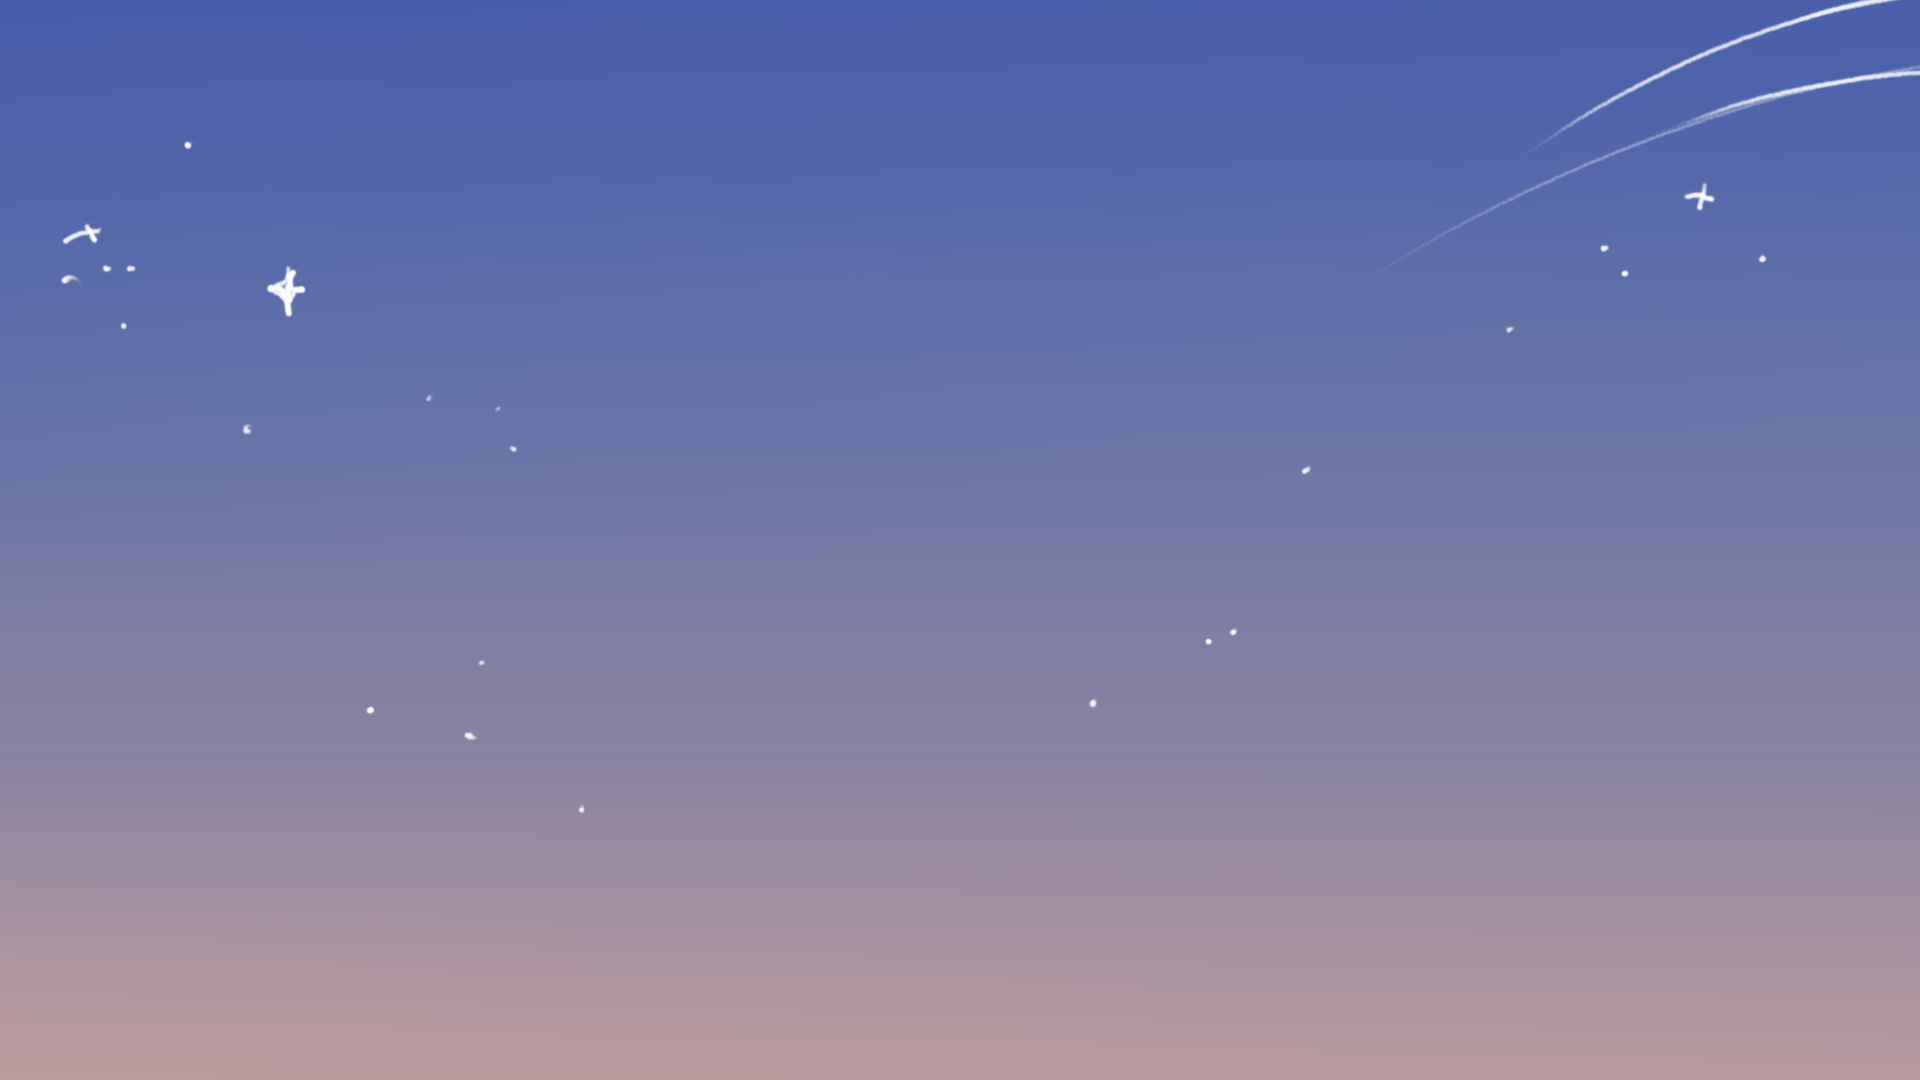
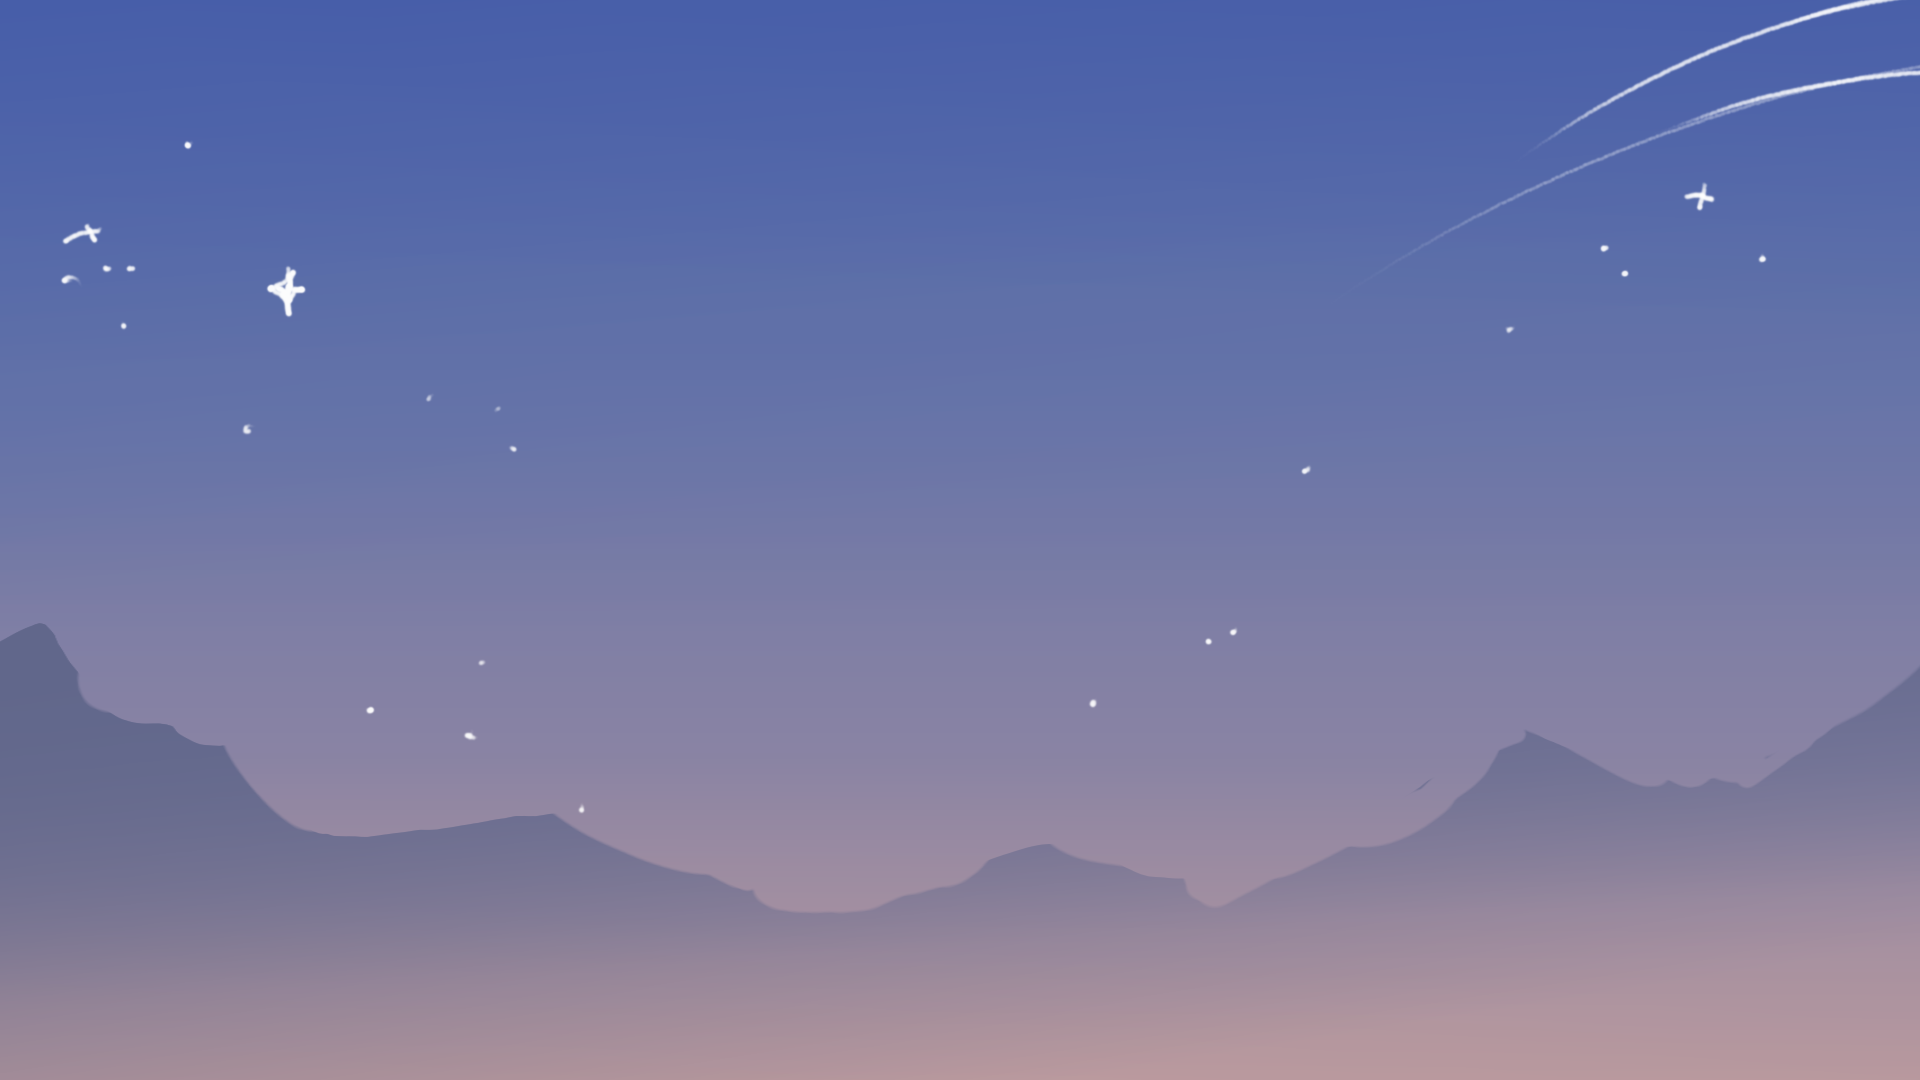
exercise done

diff --git a/exercise.html b/exercise.html
@@ -23,31 +23,8 @@
             top: 0;
             left: 0;
             z-index: 0;
-            background: url('sleepbg.png') no-repeat bottom center;
+            background: url('exercisebg.png') no-repeat bottom center;
             background-size: cover;
-        }
-
-        .floating-z {
-            position: absolute;
-            color: #4682b4; /* A nice blue color for the Z's */
-            font-size: 3em; /* Adjust the size of the Z's */
-            opacity: 0; /* Start hidden */
-            animation: float 5s infinite; /* Animation */
-        }
-
-        @keyframes float {
-            0% {
-                transform: translateY(0); /* Start from the bed position */
-                opacity: 0; /* Start hidden */
-            }
-            50% {
-                opacity: 1; /* Fade in */
-                transform: translateY(-50vh); /* Move to the middle */
-            }
-            100% {
-                transform: translateY(-100vh); /* Move to the top */
-                opacity: 0; /* Fade out */
-            }
         }
 
         .container {
@@ -153,7 +130,7 @@
         }
 
         .progress {
-            background-color: #154770;
+            background-color: #adb781;
             width: 0%; /* This can be updated based on input value */
             height: 100%;
             border-radius: 7px;
@@ -218,13 +195,7 @@
 
 <body>
 
-    <div class="background-container">
-        <img src="mountains.png" class="transparent-image" alt="Transparent Image">
-        <div class="floating-z" style="left: 20%; animation-delay: 0s;">Z</div>
-        <div class="floating-z" style="left: 40%; animation-delay: 1s;">Z</div>
-        <div class="floating-z" style="left: 60%; animation-delay: 2s;">Z</div>
-        <div class="floating-z" style="left: 80%; animation-delay: 3s;">Z</div>
-    </div>
+    <div class="background-container"></div>
 
     <div class="container">
         <div class="image-placeholder">
@@ -249,19 +220,19 @@
             </div>
 
             <div class="input-container">
-                <input type="number" class="water-input" placeholder="Enter hours of sleep (H)">
+                <input type="number" class="water-input" placeholder="Enter number of steps ">
             </div>
 
             <div class="progress-container">
                 <div class="progress-bar">
                     <div class="progress"></div>
                 </div>
-                <span class="progress-text">0/8 H</span> <!-- Adjust this text dynamically based on input -->
+                <span class="progress-text">0/10k</span> <!-- Adjust this text dynamically based on input -->
             </div>
         </div>
     </div>
 
-    <button class="arrow left" onclick="window.location.href='exercise.html'"></button>
+    <button class="arrow left" onclick="window.location.href='sleep.html'"></button>
     <button class="arrow right" onclick="window.location.href='water.html'"></button>
 
     <script>
@@ -271,10 +242,10 @@
 
         waterInput.addEventListener('input', function () {
             const waterAmount = parseInt(this.value) || 0; // Default to 0 if input is empty
-            const totalGoal = 8; // Define the total water intake goal
+            const totalGoal = 10000; // Define the total water intake goal
 
             progressBar.style.width = (waterAmount / totalGoal * 100) + '%'; // Update width based on input
-            progressText.textContent = waterAmount + '/8 H'; // Update the progress text
+            progressText.textContent = waterAmount + '/10k '; // Update the progress text
         });
     </script>
 

diff --git a/water.html b/water.html
@@ -297,7 +297,7 @@
     </div>
 
     <button class="arrow left" onclick="window.location.href='sleep.html'"></button>
-    <button class="arrow right" onclick="window.location.href='rightPage.html'"></button>
+    <button class="arrow right" onclick="window.location.href='exercise.html'"></button>
 
     <script>
         var wave = document.querySelector('.wave');
